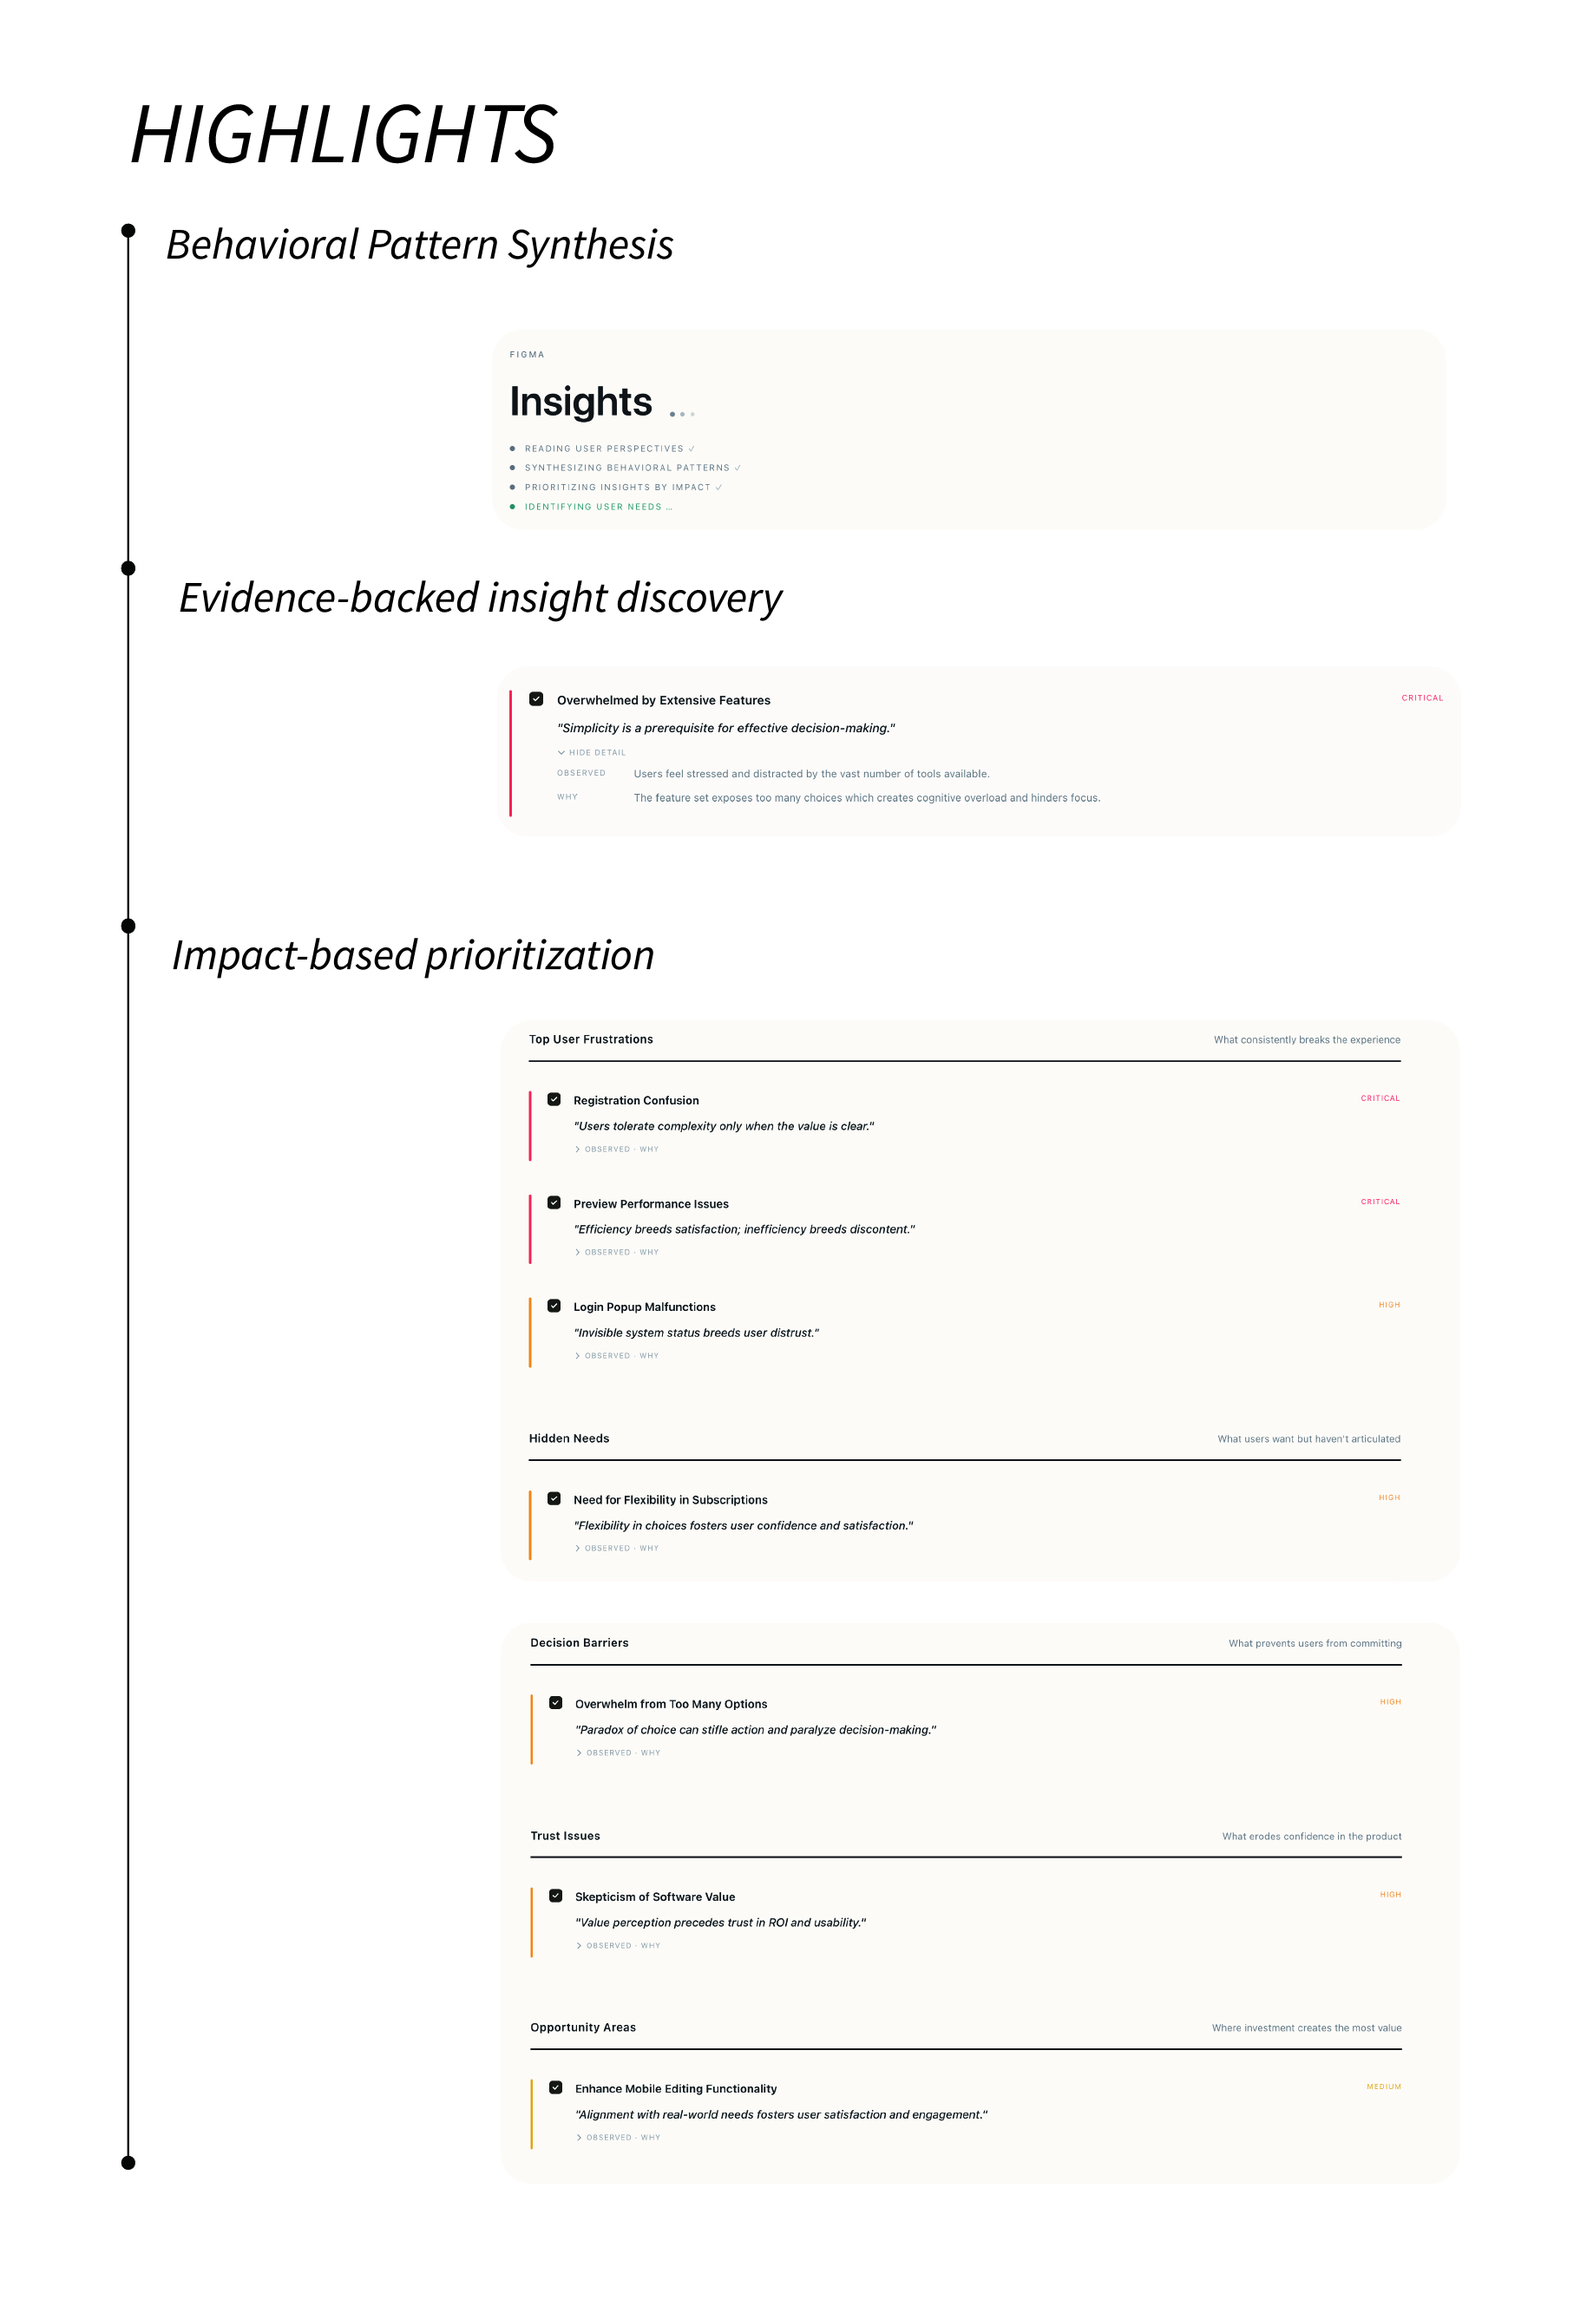
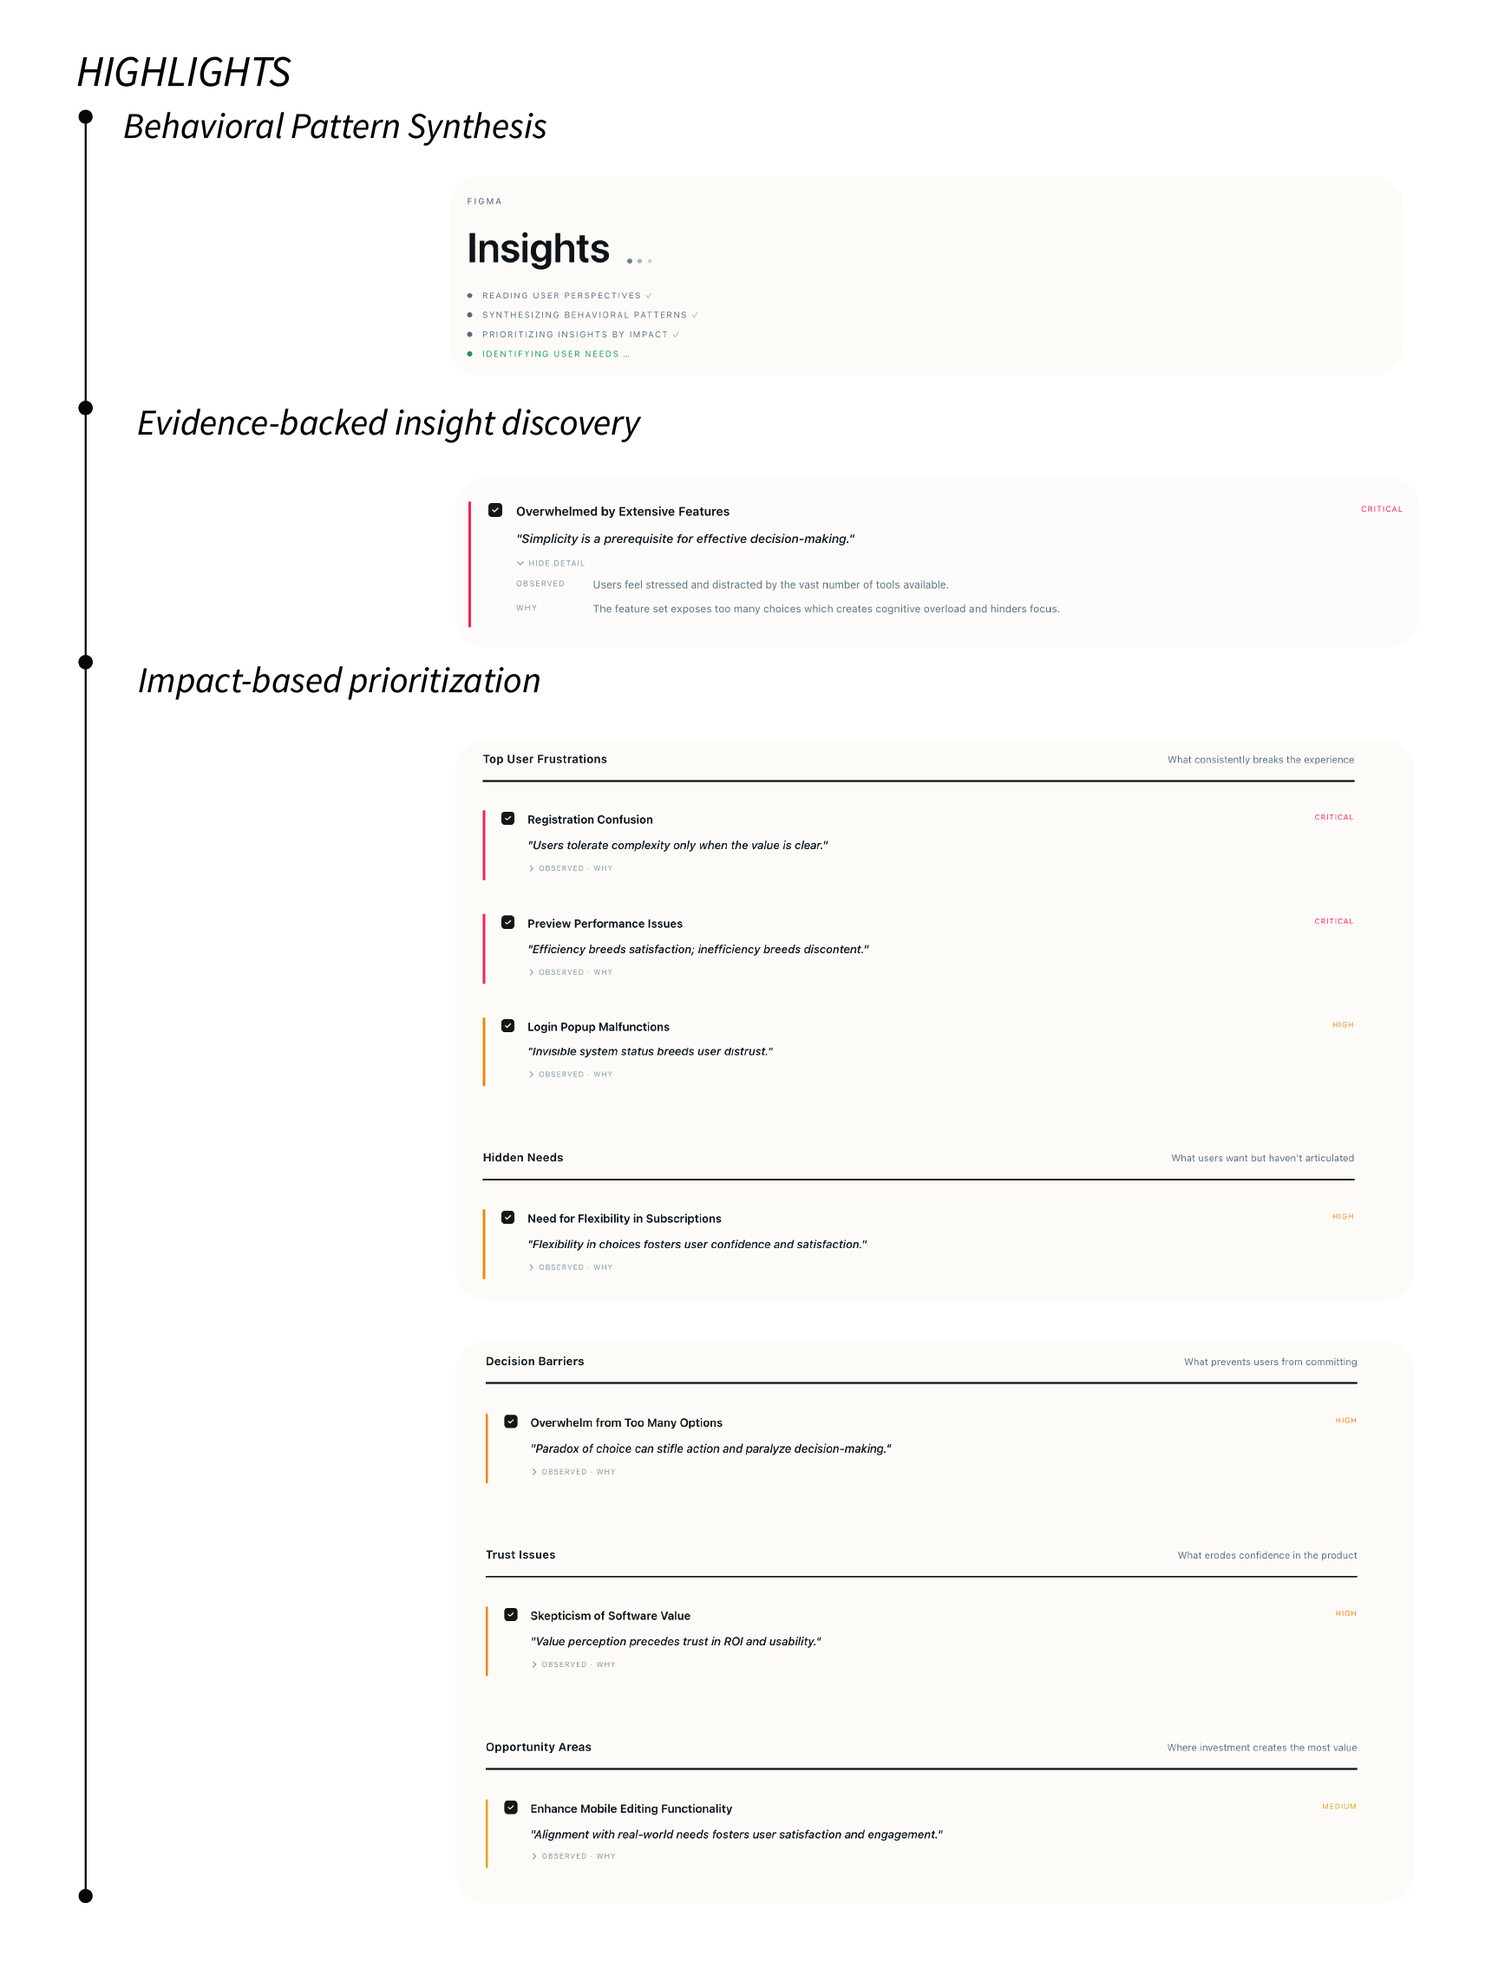
Update Technical Highlights screenshots and tighten their display width.
Refresh Highlights-03–07 assets and cap their on-page width so the frames read clearer in the case study.

diff --git a/src/components/project/SystemDesignSection.css b/src/components/project/SystemDesignSection.css
@@ -17,10 +17,18 @@
 .uos-th-images {
   display: flex;
   flex-direction: column;
+  align-items: center;
   gap: 24px;
   margin-top: 28px;
 }
 
 .uos-th-images .proj-media {
   margin: 0;
+  width: 100%;
+  max-width: 560px;
+}
+
+.uos-th-images .proj-media-img {
+  width: 100%;
+  height: auto;
 }
